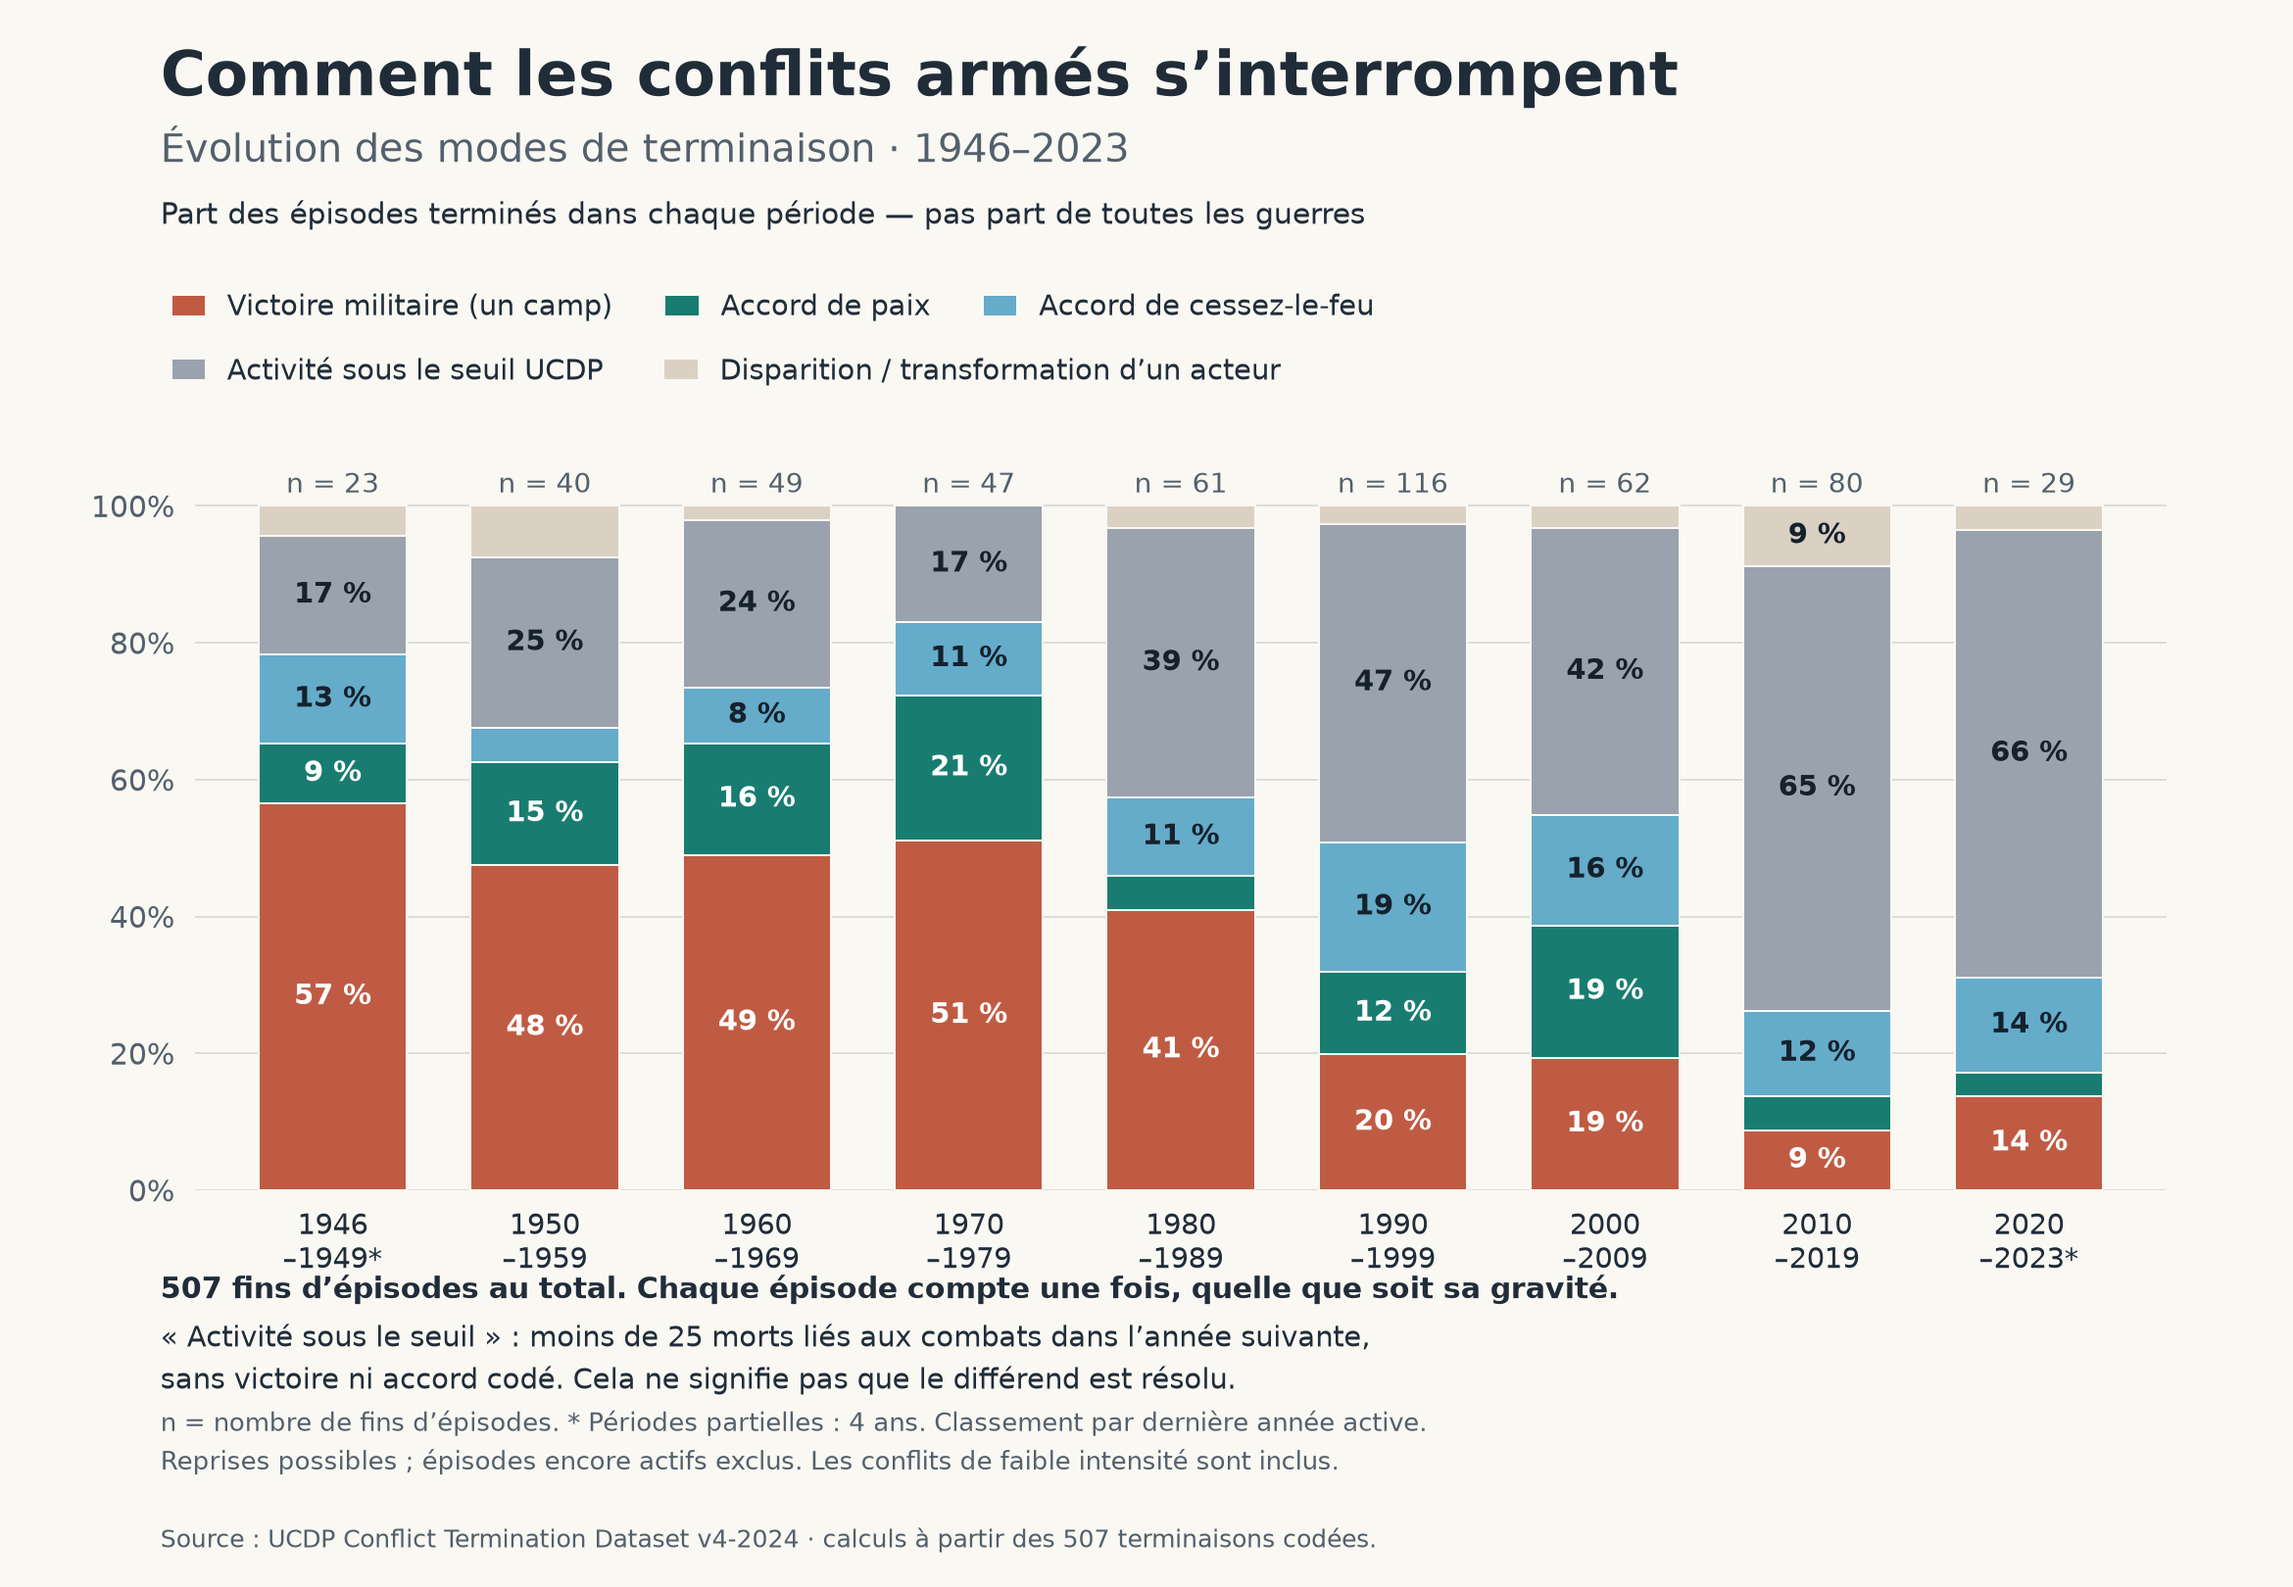
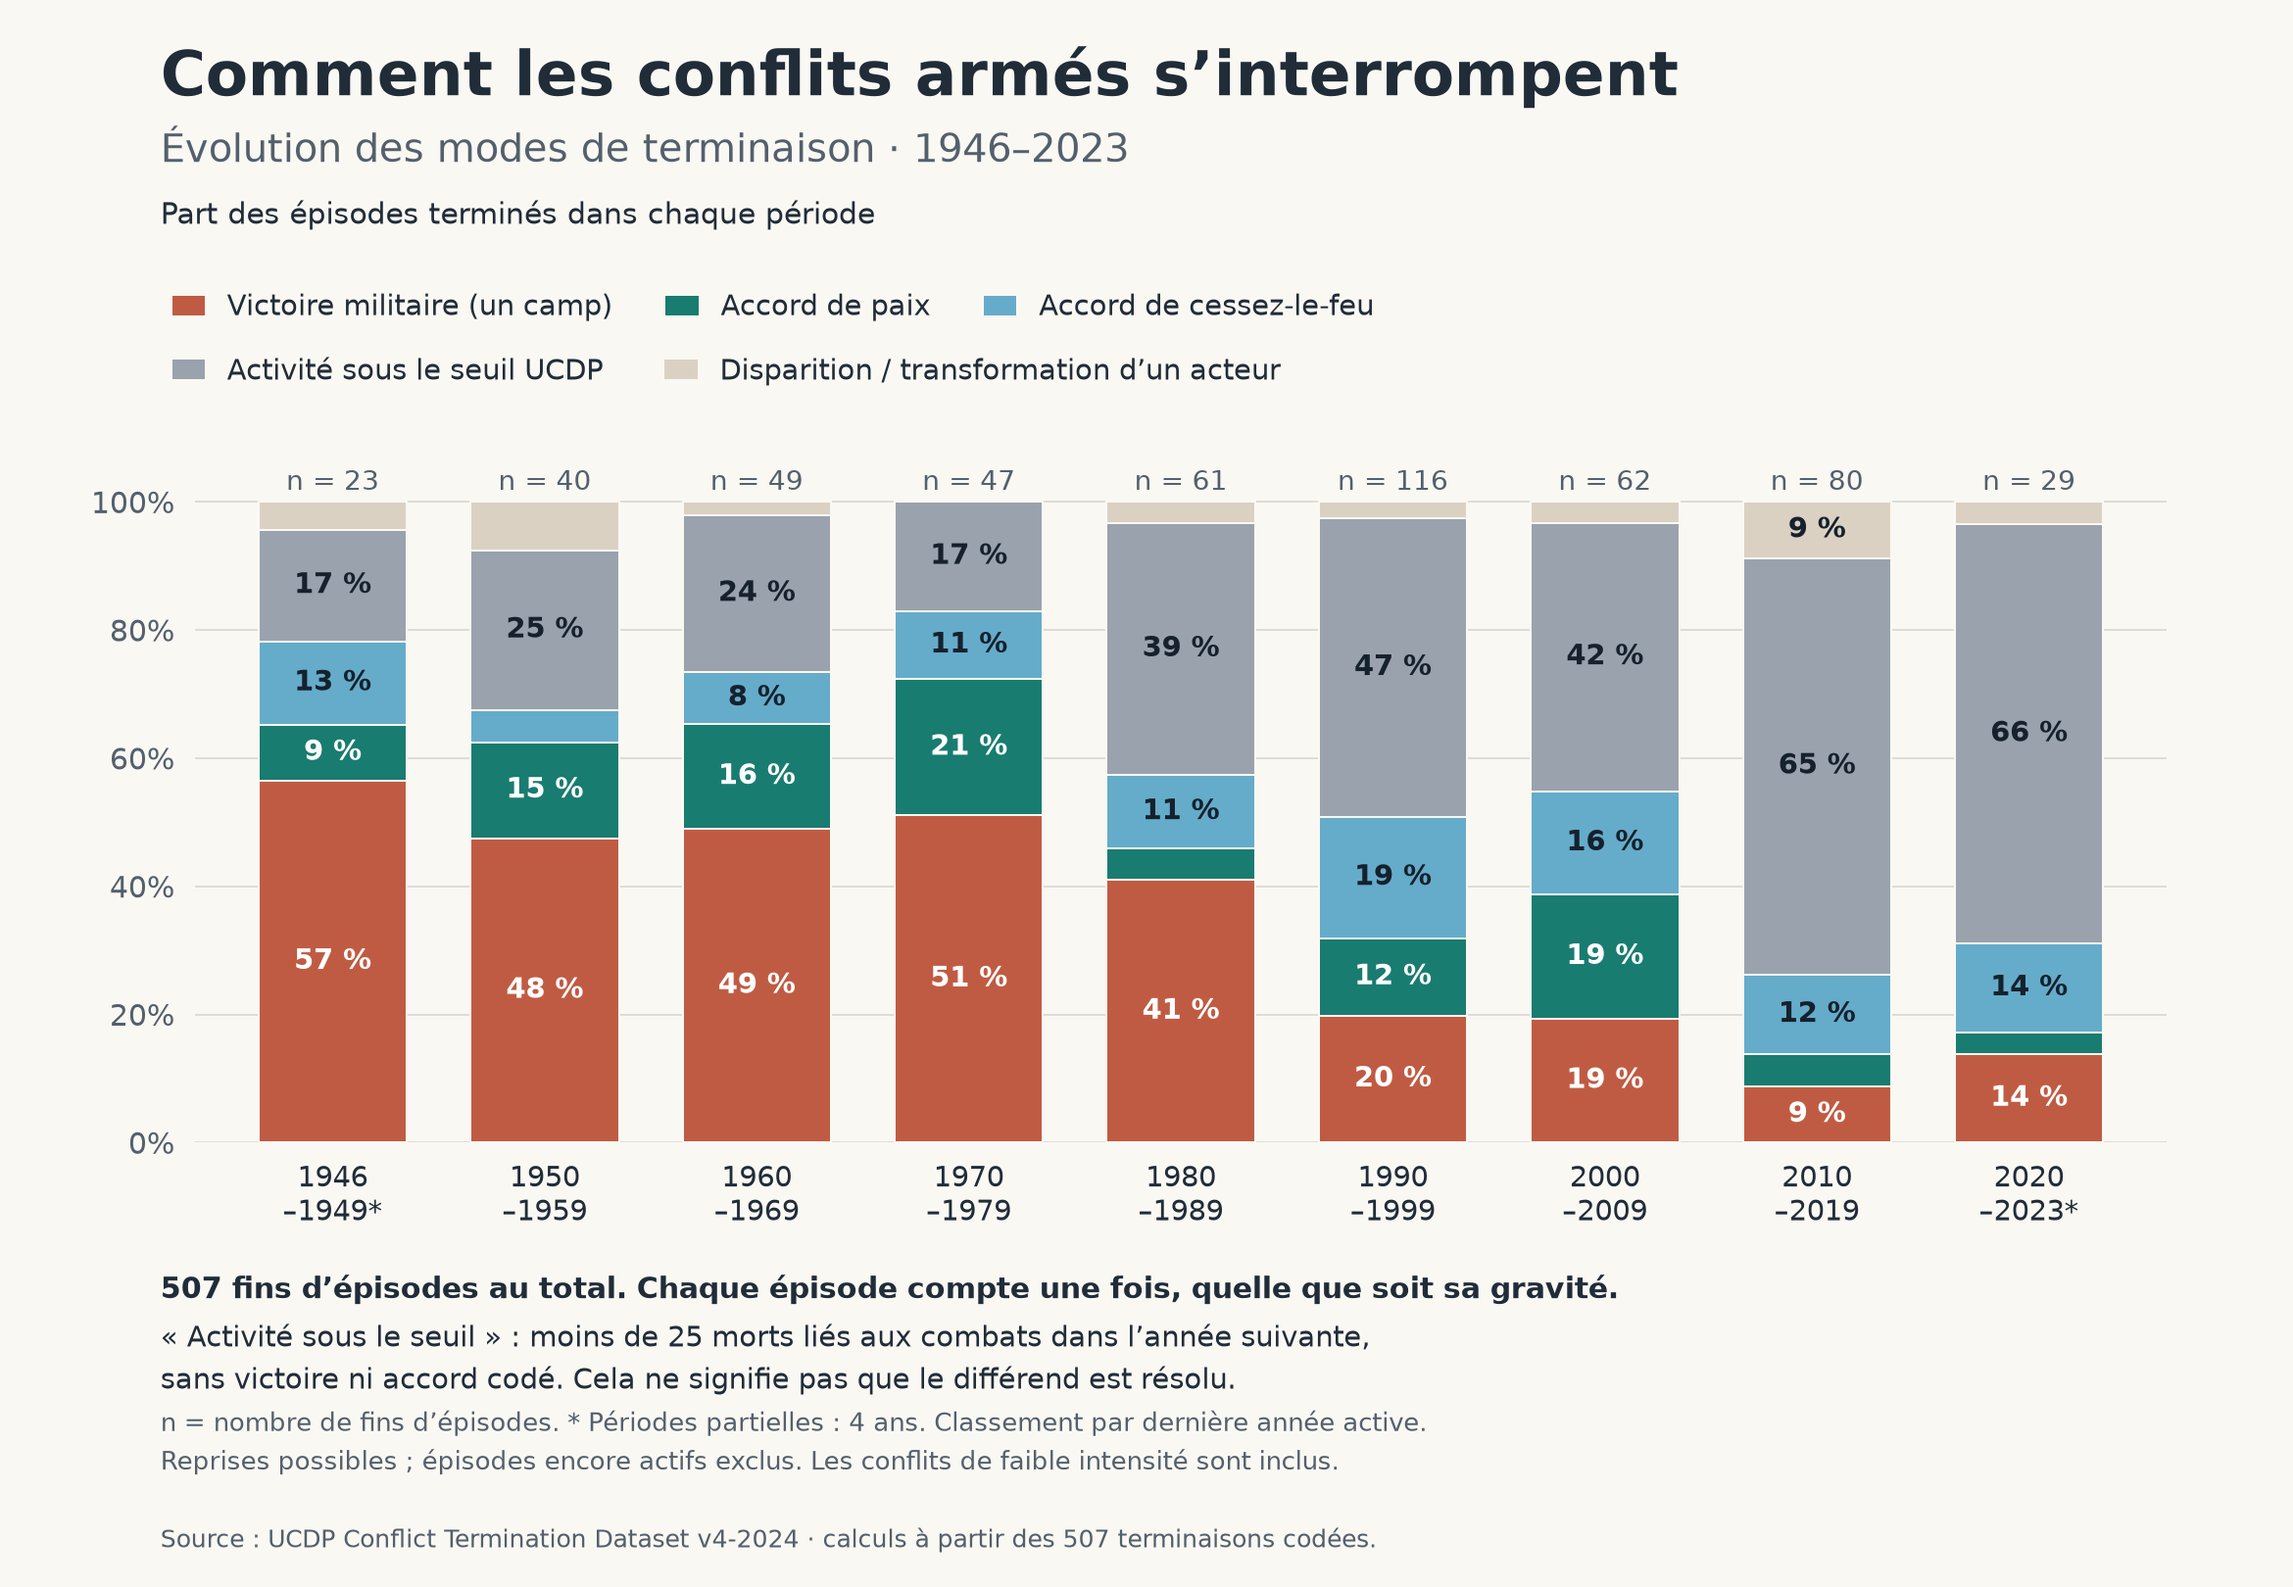
Alléger le sous-titre et aérer les notes des graphiques

diff --git a/reproduce.py b/reproduce.py
@@ -84,7 +84,7 @@ plt.rcParams.update({'font.family':'DejaVu Sans','font.size':12,'text.color':'#2
 fig = plt.figure(figsize=(13,9), facecolor='#FAF8F3')
 title = 'Comment les guerres s’interrompent' if args.wars_only else 'Comment les conflits armés s’interrompent'
 subtitle = ('Épisodes avec ≥ 1 000 morts liés aux combats en une année au moins · parts par période'
-            if args.wars_only else 'Part des épisodes terminés dans chaque période — pas part de toutes les guerres')
+            if args.wars_only else 'Part des épisodes terminés dans chaque période')
 fig.text(.07,.94,title,fontsize=25,weight='bold')
 fig.text(.07,.898,'Évolution des modes de terminaison · 1946–2023',fontsize=16,color='#53606C')
 fig.text(.07,.859,subtitle,fontsize=12)
@@ -93,7 +93,7 @@ fig.legend(handles=legend[:3],loc='upper left',bbox_to_anchor=(.064,.831),ncol=3
            columnspacing=1.9,handlelength=1.15)
 fig.legend(handles=legend[3:],loc='upper left',bbox_to_anchor=(.064,.791),ncol=2,frameon=False,fontsize=11.5,
            columnspacing=2.2,handlelength=1.15)
-ax = fig.add_axes([.085,.25,.86,.47],facecolor='#FAF8F3')
+ax = fig.add_axes([.085,.28,.86,.44],facecolor='#FAF8F3')
 ax.set_ylim(0,109)
 ax.set_xlim(-.65,len(periods)-.35)
 ax.set_yticks([0,20,40,60,80,100])
